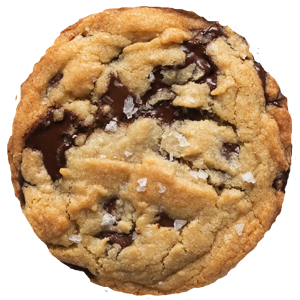
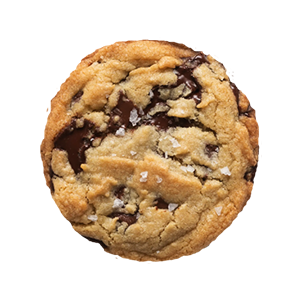
Ugrade Button stuff
made custom UpgradeButton class that extends JButton, added cost and icon and shaded functionality. Text is green when buyable, red when not. Hell yeah

diff --git a/GamePanel.java b/GamePanel.java
@@ -7,7 +7,7 @@ import java.util.ArrayList;
 
 public class GamePanel
 {
-    private int ClickMult = 1;
+    private int AutoClickers = 0;
     public GamePanel()
     {
         JFrame frame = new JFrame();
@@ -32,14 +32,14 @@ public class GamePanel
         CookieCount.setFont(new Font("Arial", Font.PLAIN, 40));
         CookieCount.setForeground(Color.WHITE);
         
-        JLabel multCount = new JLabel("Mult: "+ClickMult);
-        multCount.setFont(new Font("Arial", Font.PLAIN, 40));
+        JLabel multCount = new JLabel("AutoClickers: "+AutoClickers);
+        multCount.setFont(new Font("Arial", Font.PLAIN, 30));
         multCount.setForeground(Color.WHITE);
         
         JPanel buttonPanel = new JPanel();
         buttonPanel.setLayout(new BoxLayout(buttonPanel, BoxLayout.Y_AXIS)); //courtesy of Mr.GPT
         buttonPanel.setBackground(Color.RED);
-        ArrayList<JButton> buttonList = new ArrayList<>();
+        ArrayList<UpgradeButton> buttonList = new ArrayList<>();
         Upgrades(buttonPanel,cookieCount,CookieCount,multCount,buttonList);
         JScrollPane scrollPane = new JScrollPane(buttonPanel);
         
@@ -58,12 +58,12 @@ public class GamePanel
         int animationSteps = 5;
         int delay = 20; //in miliseconds
         cookie.addActionListener(e -> {
-            cookieCount[0]+= (1*ClickMult);
+            cookieCount[0]+= (1);
             CookieCount.setText("Cookie Count: "+cookieCount[0]);
             
-             for (JButton b : buttonList) {
-                    if ((int) b.getClientProperty("price")<=cookieCount[0]) {
-                           b.setIcon(new ImageIcon("C:\\Users\\Steve\\Documents\\GitHub\\Comp-Sci-Final-Project\\ImageAssets\\UgradeButton.png"));
+             for (UpgradeButton b : buttonList) {
+                    if (b.getPrice()<=cookieCount[0]) {
+                           b.notShaded();
                     }
             }
             
@@ -88,11 +88,11 @@ public class GamePanel
         
         frame.setVisible(true);
     }
-    public void Upgrades(JPanel panel,int[] cookieCount, JLabel CookieCount, JLabel multCount, ArrayList<JButton> buttonList){
+    public void Upgrades(JPanel panel,int[] cookieCount, JLabel CookieCount, JLabel multCount, ArrayList<UpgradeButton> buttonList){
         int[] i = {0};
         for (i[0]=1; i[0] <= 50; i[0]++) {
             ImageIcon upgradeButtonIcon = new ImageIcon("C:\\Users\\Steve\\Documents\\GitHub\\Comp-Sci-Final-Project\\ImageAssets\\UpgradeButtonShaded.png");
-            JButton button = new JButton(upgradeButtonIcon);
+            UpgradeButton button = new UpgradeButton(upgradeButtonIcon, new ImageIcon("C:\\Users\\Steve\\Documents\\GitHub\\Comp-Sci-Final-Project\\ImageAssets\\UgradeButton.png"), 16);
             button.setContentAreaFilled(false);
             button.setBorderPainted(false);
             button.setFocusPainted(false);
@@ -101,20 +101,21 @@ public class GamePanel
             button.setMaximumSize(size);
             button.setMinimumSize(size); //for some reason all three of these are needed
             if(i[0]==1){
-                button.putClientProperty("price", 11);
+                button.setPrice(15);
+                button.setNotShadedIcon(new ImageIcon("C:\\Users\\Steve\\Documents\\GitHub\\Comp-Sci-Final-Project\\ImageAssets\\AutoClicker.png"));
+                button.setShadedIcon(new ImageIcon("C:\\Users\\Steve\\Documents\\GitHub\\Comp-Sci-Final-Project\\ImageAssets\\AutoClickerShaded.png"));
+                button.shaded();
+                
+                
+                button.setForeground(Color.RED);
                 button.addActionListener(e -> {
-                    if(cookieCount[0]>=(int)button.getClientProperty("price")){
+                    if(cookieCount[0]>=button.getPrice()){
                             cookieCount[0]-=(int)button.getClientProperty("price");
-                            
-                            //upgrade specific stuff:
                             CookieCount.setText("Cookie Count: "+cookieCount[0]); //update cost
-                            ClickMult+=1;
-                            
-                            multCount.setText("Mult: "+ClickMult);
                     }
-                     for (JButton b : buttonList) {
+                     for (UpgradeButton b : buttonList) {
                         if ((int) b.getClientProperty("price")>=cookieCount[0]) {
-                            b.setIcon(new ImageIcon("C:\\Users\\Steve\\Documents\\GitHub\\Comp-Sci-Final-Project\\ImageAssets\\UpgradeButtonShaded.png"));
+                            b.shaded();
                         }
                     }
                 });
@@ -122,13 +123,13 @@ public class GamePanel
             else{
                 button.putClientProperty("price", 12);
                 button.addActionListener(e -> {
-                    if(cookieCount[0]>=(int)button.getClientProperty("price")){
+                    if(cookieCount[0]>=button.getPrice()){
                             cookieCount[0]-=(int)button.getClientProperty("price");
                             CookieCount.setText("Cookie Count: "+cookieCount[0]); 
                     }
-                     for (JButton b : buttonList) {
-                        if ((int) b.getClientProperty("price")>=cookieCount[0]) {
-                            b.setIcon(new ImageIcon("C:\\Users\\Steve\\Documents\\GitHub\\Comp-Sci-Final-Project\\ImageAssets\\UpgradeButtonShaded.png"));
+                     for (UpgradeButton b : buttonList) {
+                        if (button.getPrice()>=cookieCount[0]) {
+                            b.shaded();
                         }
                     }
                 });
@@ -142,37 +143,14 @@ public class GamePanel
     }
     public void buttonAnimation(JButton cookie){
         int[] i = {0};
-        int[] sizes = {300,300};
         Timer[] timer = new Timer[1];
         timer[0] = new Timer(10,new ActionListener() {
             public void actionPerformed(ActionEvent e) {
                 if(i[0]>=3){
                     timer[0].stop();
-                    buttonSmallerAnimation(cookie);
                 }
-                sizes[0]+=5; 
-                sizes[1]+=5;
-                cookie.setSize(sizes[0],sizes[1]);
-                
-                i[0]++;
-            }
-        });
-        timer[0].start();
-    }
-    public void buttonSmallerAnimation(JButton cookie){
-        int[] i = {0};
-        int[] sizes = {315,315};
-        Timer[] timer = new Timer[1];
-        timer[0] = new Timer(10,new ActionListener() {
-            public void actionPerformed(ActionEvent e) {
-                if(i[0]>=3){
-                    timer[0].stop();
-                    
-                }
-                sizes[0]-=5; 
-                sizes[1]-=5;
-                cookie.setSize(sizes[0],sizes[1]);
-                
+                ImageIcon clickedIcon = new ImageIcon("C:\\Users\\Steve\\Documents\\GitHub\\Comp-Sci-Final-Project\\ImageAssets\\Cookie.png");
+                cookie.setIcon(clickedIcon);
                 i[0]++;
             }
         });

diff --git a/UpgradeButton.java b/UpgradeButton.java
@@ -1,0 +1,51 @@
+import javax.swing.JButton;
+import javax.swing.*;
+import java.awt.*;
+
+public class UpgradeButton extends JButton {
+    ImageIcon shadedIcon;
+    ImageIcon notShadedIcon;
+    boolean isShaded;
+    int price;
+    public UpgradeButton(ImageIcon shadedIcon, ImageIcon notShadedIcon, int price) {
+        this.shadedIcon = shadedIcon;
+        this.notShadedIcon = notShadedIcon;
+        this.price = price;
+        setIcon(shadedIcon);
+        isShaded = true;
+    }
+    public void setShadedIcon(ImageIcon shadedIcon){
+        this.shadedIcon = shadedIcon;
+    }
+    public void setNotShadedIcon(ImageIcon notShadedIcon){
+        this.notShadedIcon = notShadedIcon;
+    }
+    public void setPrice(int price){
+        this.price = price;
+    }
+    public int getPrice(){
+        return price;
+    }
+    public boolean isIconShaded(){
+        return isShaded;
+    }
+    public void shaded(){
+        setIcon(shadedIcon);
+        isShaded = true;
+    }
+    public void notShaded(){
+        setIcon(notShadedIcon);
+        isShaded = false;
+    }
+    @Override
+    protected void paintComponent(Graphics g) {
+        super.paintComponent(g);
+        if(isShaded){
+            g.setColor(Color.RED);
+        }else{
+            g.setColor(Color.GREEN);
+        }
+        g.setFont(new Font("Arial", Font.BOLD, 14));
+        g.drawString(""+price, 80, 45); // x=30, y=40
+    }
+}
